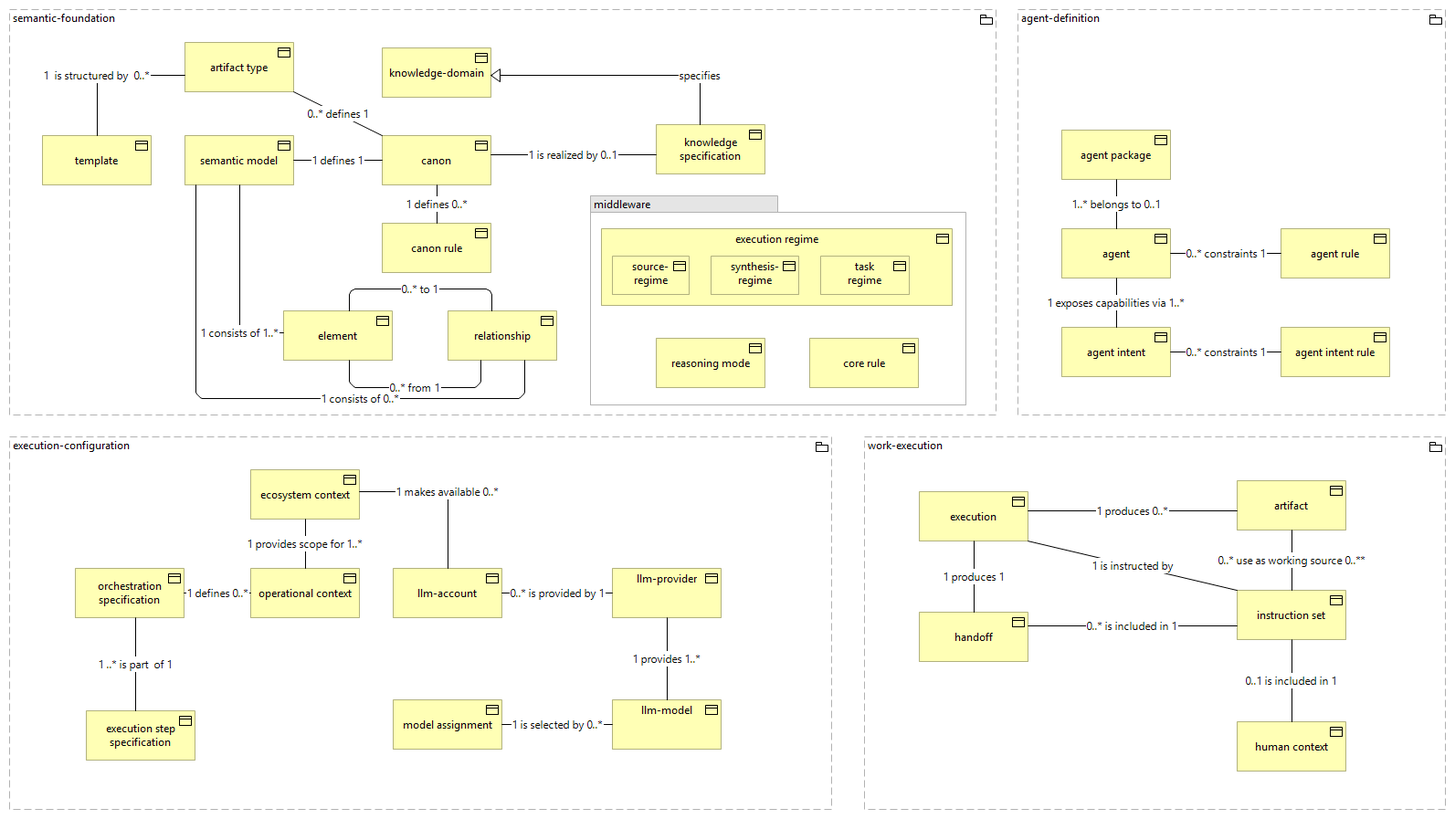
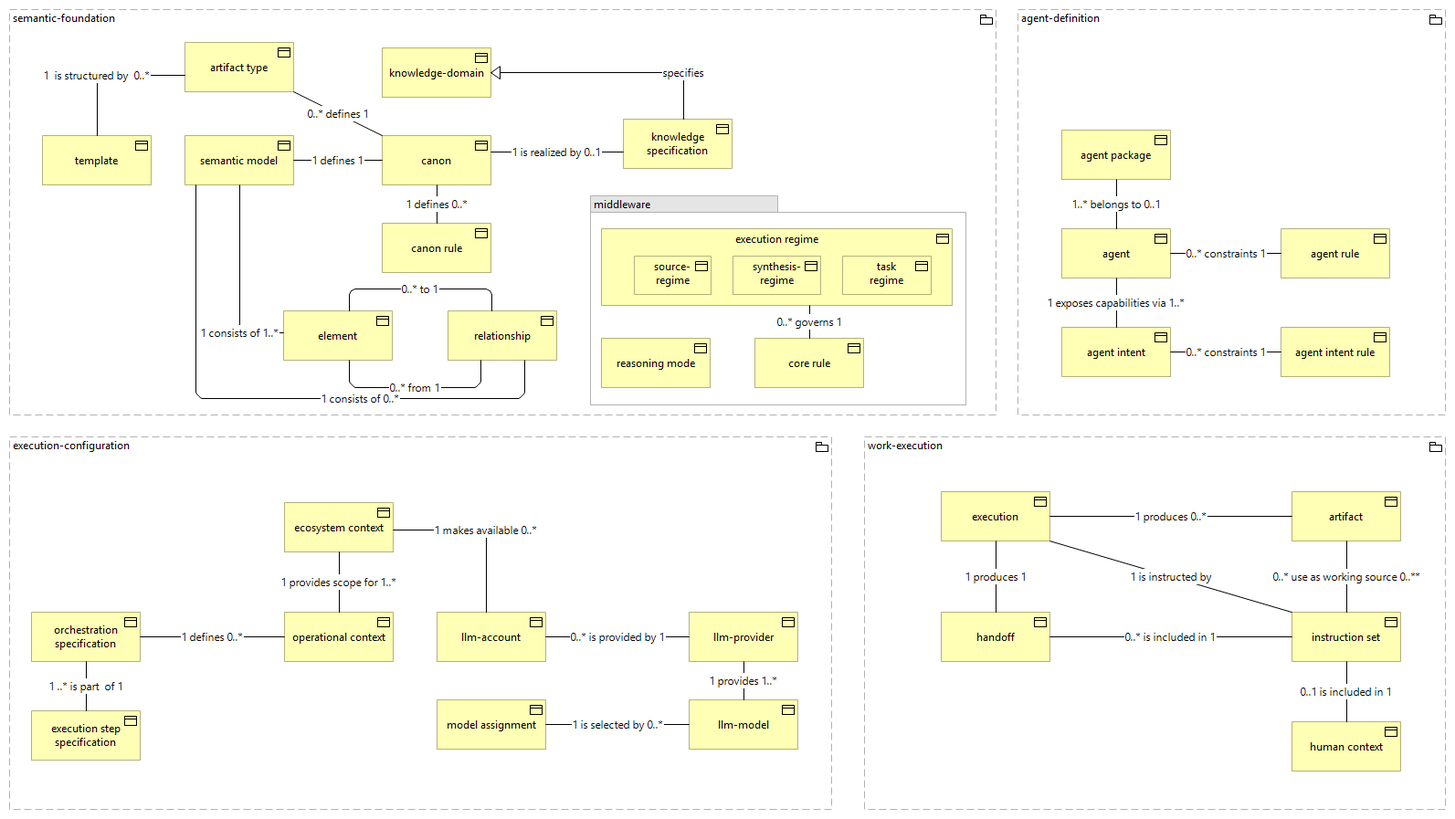
lay out modellen

diff --git a/doc/views/id-fca85b9eb275498c905415549bb8efb2/views/id-cbd780d82d40493fa36ca540fd74bf41.html b/doc/views/id-fca85b9eb275498c905415549bb8efb2/views/id-cbd780d82d40493fa36ca540fd74bf41.html
@@ -33,21 +33,21 @@
 		    <!-- If this is a digram model (has children and no bounds) show the image -->
 			   <img class="diagram" src="../images/id-cbd780d82d40493fa36ca540fd74bf41.png" alt="logical-instances-bedrijfsobjecten" usemap="#id-cbd780d82d40493fa36ca540fd74bf41map"/>
 			   <map name="id-cbd780d82d40493fa36ca540fd74bf41map">
-				  				<area shape="rect" coords="1354,526,1474,581" href="../elements/id-4e0f720907c34ad186ec8a6958817d41.html"  target="element">
-				  				<area shape="rect" coords="1006,538,1126,593" href="../elements/id-2e8c595bfedb4d8ba8cedbdf2eb284f2.html"  target="element">
-				  				<area shape="rect" coords="1354,646,1474,701" href="../elements/id-a4319ee116ab41dda18d476242ca88da.html"  target="element">
-				  				<area shape="rect" coords="1354,790,1474,845" href="../elements/id-7970b9b7176341039f2e4af29e4d2d3a.html"  target="element">
-				  				<area shape="rect" coords="1006,670,1126,725" href="../elements/id-4215cbb5ea2e4b41bf3966ed673a5740.html"  target="element">
+				  				<area shape="rect" coords="1414,538,1534,593" href="../elements/id-4e0f720907c34ad186ec8a6958817d41.html"  target="element">
+				  				<area shape="rect" coords="1030,538,1150,593" href="../elements/id-2e8c595bfedb4d8ba8cedbdf2eb284f2.html"  target="element">
+				  				<area shape="rect" coords="1414,670,1534,725" href="../elements/id-a4319ee116ab41dda18d476242ca88da.html"  target="element">
+				  				<area shape="rect" coords="1414,790,1534,845" href="../elements/id-7970b9b7176341039f2e4af29e4d2d3a.html"  target="element">
+				  				<area shape="rect" coords="1030,670,1150,725" href="../elements/id-4215cbb5ea2e4b41bf3966ed673a5740.html"  target="element">
 
 				  		<area shape="rect" coords="946,478,1583,887" href="../elements/id-bcfa69ae40094ba780197b67f2a9adc5.html"  target="element">
-				  				<area shape="rect" coords="670,622,790,677" href="../elements/id-9c36c275b1bc4801a5e76a6db8a16571.html"  target="element">
-				  				<area shape="rect" coords="670,766,790,821" href="../elements/id-47c7669317cf4b9aaec0c64751602214.html"  target="element">
-				  				<area shape="rect" coords="430,766,550,821" href="../elements/id-3208e79172454362b69c0661b8e55589.html"  target="element">
-				  				<area shape="rect" coords="274,622,394,677" href="../elements/id-94e213279a1d46149da17c04c0572efe.html"  target="element">
-				  				<area shape="rect" coords="82,622,202,677" href="../elements/id-0a67e6f41ebb45b9b7a3fc306bc08cd1.html"  target="element">
-				  				<area shape="rect" coords="430,622,550,677" href="../elements/id-abdf3fc1a9504d1eb988ab196a0ecf67.html"  target="element">
-				  				<area shape="rect" coords="94,778,214,833" href="../elements/id-95a0e0e6f3e1431da1195ba095f3435d.html"  target="element">
-				  				<area shape="rect" coords="274,514,394,569" href="../elements/id-a99dcf9067d84b2b9ddf4b7a8f40c647.html"  target="element">
+				  				<area shape="rect" coords="754,670,874,725" href="../elements/id-9c36c275b1bc4801a5e76a6db8a16571.html"  target="element">
+				  				<area shape="rect" coords="754,766,874,821" href="../elements/id-47c7669317cf4b9aaec0c64751602214.html"  target="element">
+				  				<area shape="rect" coords="478,766,598,821" href="../elements/id-3208e79172454362b69c0661b8e55589.html"  target="element">
+				  				<area shape="rect" coords="311,670,431,725" href="../elements/id-94e213279a1d46149da17c04c0572efe.html"  target="element">
+				  				<area shape="rect" coords="34,670,154,725" href="../elements/id-0a67e6f41ebb45b9b7a3fc306bc08cd1.html"  target="element">
+				  				<area shape="rect" coords="478,670,598,725" href="../elements/id-abdf3fc1a9504d1eb988ab196a0ecf67.html"  target="element">
+				  				<area shape="rect" coords="34,778,154,833" href="../elements/id-95a0e0e6f3e1431da1195ba095f3435d.html"  target="element">
+				  				<area shape="rect" coords="311,550,431,605" href="../elements/id-a99dcf9067d84b2b9ddf4b7a8f40c647.html"  target="element">
 
 				  		<area shape="rect" coords="10,478,911,887" href="../elements/id-64f19a334e974108b93f342c683cf1d5.html"  target="element">
 				  				<area shape="rect" coords="1402,250,1522,305" href="../elements/id-9dd7d63f3bda44a6919074aa6bd45c04.html"  target="element">
@@ -62,19 +62,19 @@
 				  				<area shape="rect" coords="202,148,322,203" href="../elements/id-1fa6202fbcb84810a487e731d399058b.html"  target="element">
 				  				<area shape="rect" coords="310,340,430,395" href="../elements/id-a248b6e4d5a04c6c995cc9ecb4872d2e.html"  target="element">
 				  				<area shape="rect" coords="490,340,610,395" href="../elements/id-9c775a49c62f4d49a90673446cec6a64.html"  target="element">
-				  								<area shape="rect" coords="898,280,996,323" href="../elements/id-3969a1acce774516911bb973b0ff59ee.html"  target="element">
+				  						<area shape="rect" coords="826,370,946,425" href="../elements/id-697686712c9f40faa2f23c8994eaef05.html"  target="element">
+				  								<area shape="rect" coords="922,280,1020,323" href="../elements/id-3969a1acce774516911bb973b0ff59ee.html"  target="element">
 				  								<area shape="rect" coords="1116,311,1236,366" href="../elements/id-3969a1acce774516911bb973b0ff59ee.html"  target="element">
-				  								<area shape="rect" coords="778,280,875,323" href="../elements/id-a2b9d71e443c49c58b44615551eb4f5b.html"  target="element">
-				  								<area shape="rect" coords="670,280,755,323" href="../elements/id-fe950c3ebad04932a87cb572b191e4ff.html"  target="element">
+				  								<area shape="rect" coords="802,280,899,323" href="../elements/id-a2b9d71e443c49c58b44615551eb4f5b.html"  target="element">
+				  								<area shape="rect" coords="694,280,779,323" href="../elements/id-fe950c3ebad04932a87cb572b191e4ff.html"  target="element">
 
 				  						<area shape="rect" coords="658,250,1043,335" href="../elements/id-4cab30c96f5d468d98f0c6624bc3bd5d.html"  target="element">
-				  						<area shape="rect" coords="718,370,838,425" href="../elements/id-6cd1f6f39e864f16855d0eda7857df01.html"  target="element">
-				  						<area shape="rect" coords="886,370,1006,425" href="../elements/id-697686712c9f40faa2f23c8994eaef05.html"  target="element">
+				  						<area shape="rect" coords="658,370,778,425" href="../elements/id-6cd1f6f39e864f16855d0eda7857df01.html"  target="element">
 
 				  		        <area shape="rect" coords="646,214,1058,444" href="../objects/id-8aa204dcb39646bc89f25004045e7cd7.html" target="element" >
 				  				<area shape="rect" coords="874,340,994,395" href="../elements/id-b7cb33c7b50e48dabb3f0d830de8698f.html"  target="element">
 				  				<area shape="rect" coords="418,52,538,107" href="../elements/id-4e02ad03bf6d4963b101fdad1d0f7b7b.html"  target="element">
-				  				<area shape="rect" coords="718,136,838,191" href="../elements/id-1d62c68e5893433f81d1472f83cfad2d.html"  target="element">
+				  				<area shape="rect" coords="682,130,802,185" href="../elements/id-1d62c68e5893433f81d1472f83cfad2d.html"  target="element">
 				  				<area shape="rect" coords="418,244,538,299" href="../elements/id-03e98ce0196345b599d814c30d4a986a.html"  target="element">
 				  				<area shape="rect" coords="418,148,538,203" href="../elements/id-6d66d6cdd2534270b0f3732e4ecec8cc.html"  target="element">
 
@@ -192,12 +192,6 @@
 											        </tr>
 
 															<tr>
-															    <td> <a href="../elements/id-697686712c9f40faa2f23c8994eaef05.html" target="element"> core rule </a> </td>
-															    <td> <a href="../elements/id-697686712c9f40faa2f23c8994eaef05.html" target="element" class="i18n-elementtype-BusinessObject">
-															    </a> </td>
-															</tr>
-
-															<tr>
 															    <td> <a href="../elements/id-6cd1f6f39e864f16855d0eda7857df01.html" target="element"> reasoning mode </a> </td>
 															    <td> <a href="../elements/id-6cd1f6f39e864f16855d0eda7857df01.html" target="element" class="i18n-elementtype-BusinessObject">
 															    </a> </td>
@@ -234,6 +228,12 @@
 																	</tr>
 
 															
+															<tr>
+															    <td> <a href="../elements/id-697686712c9f40faa2f23c8994eaef05.html" target="element"> core rule </a> </td>
+															    <td> <a href="../elements/id-697686712c9f40faa2f23c8994eaef05.html" target="element" class="i18n-elementtype-BusinessObject">
+															    </a> </td>
+															</tr>
+
 													
 													<tr>
 													    <td> <a href="../elements/id-9c775a49c62f4d49a90673446cec6a64.html" target="element"> relationship </a> </td>
@@ -552,6 +552,14 @@
 																							</tr>
 
 															
+																					<tr>
+																						<td> <a href="../elements/id-91a5511abcf545e198f98a4d4559ec82.html" target="element"> 0..* governs 1 </a> </td>
+																						<td> <a href="../elements/id-91a5511abcf545e198f98a4d4559ec82.html" target="element" class="i18n-elementtype-AssociationRelationship">
+																						</a> </td>
+																						<td> <a href="../elements/id-697686712c9f40faa2f23c8994eaef05.html" target="element"> core rule </a> </td>
+																						<td> <a href="../elements/id-4cab30c96f5d468d98f0c6624bc3bd5d.html" target="element"> execution regime </a> </td>
+																					</tr>
+
 													
 																			<tr>
 																				<td> <a href="../elements/id-a910f844d5e747cf921c8657b7088c32.html" target="element"> 0..* from 1 </a> </td>

diff --git a/doc/views/id-fca85b9eb275498c905415549bb8efb2/elements/model.html b/doc/views/id-fca85b9eb275498c905415549bb8efb2/elements/model.html
@@ -1169,14 +1169,6 @@
 										dataRelationships.push({id:"id-67bb08825671474586240ab415b74536", type:"AssociationRelationship", specialization:decodeURL(""), name:decodeURL("1..*+is+included+in+0+..*"), documentation:decodeURL(""), sourceid:"id-a4319ee116ab41dda18d476242ca88da", targetid:"id-b7cb33c7b50e48dabb3f0d830de8698f"});
 									dataFoldersContent.push({folderid:"id-5dd05707f28f4e91a2ed407b9bf565d6", contentid:"id-002b70b66cce4964a129d5db78c7bd59", contenttype:"AssociationRelationship"});
 										dataRelationships.push({id:"id-002b70b66cce4964a129d5db78c7bd59", type:"AssociationRelationship", specialization:decodeURL(""), name:decodeURL("0..*+constraints+1"), documentation:decodeURL(""), sourceid:"id-7c826e60007f41aeaaddbcb4fc50958d", targetid:"id-fc519c97c3c04fb3b43a50b72f0aef38"});
-									dataFoldersContent.push({folderid:"id-5dd05707f28f4e91a2ed407b9bf565d6", contentid:"id-730f27f6b9a74a53a238b76db48ff9d9", contenttype:"SpecializationRelationship"});
-										dataRelationships.push({id:"id-730f27f6b9a74a53a238b76db48ff9d9", type:"SpecializationRelationship", specialization:decodeURL(""), name:decodeURL(""), documentation:decodeURL(""), sourceid:"id-697686712c9f40faa2f23c8994eaef05", targetid:"id-b7cb33c7b50e48dabb3f0d830de8698f"});
-									dataFoldersContent.push({folderid:"id-5dd05707f28f4e91a2ed407b9bf565d6", contentid:"id-cffc5529fa324bc3b4ec4ad579393856", contenttype:"AssociationRelationship"});
-										dataRelationships.push({id:"id-cffc5529fa324bc3b4ec4ad579393856", type:"AssociationRelationship", specialization:decodeURL(""), name:decodeURL("specify"), documentation:decodeURL(""), sourceid:"id-697686712c9f40faa2f23c8994eaef05", targetid:"id-a2b9d71e443c49c58b44615551eb4f5b"});
-									dataFoldersContent.push({folderid:"id-5dd05707f28f4e91a2ed407b9bf565d6", contentid:"id-38adee02377c428394b74a3f91a59c25", contenttype:"AssociationRelationship"});
-										dataRelationships.push({id:"id-38adee02377c428394b74a3f91a59c25", type:"AssociationRelationship", specialization:decodeURL(""), name:decodeURL("specify"), documentation:decodeURL(""), sourceid:"id-3969a1acce774516911bb973b0ff59ee", targetid:"id-697686712c9f40faa2f23c8994eaef05"});
-									dataFoldersContent.push({folderid:"id-5dd05707f28f4e91a2ed407b9bf565d6", contentid:"id-223a6f2e191149ffaf02293cf9ca11e1", contenttype:"AssociationRelationship"});
-										dataRelationships.push({id:"id-223a6f2e191149ffaf02293cf9ca11e1", type:"AssociationRelationship", specialization:decodeURL(""), name:decodeURL("specify"), documentation:decodeURL(""), sourceid:"id-3969a1acce774516911bb973b0ff59ee", targetid:"id-697686712c9f40faa2f23c8994eaef05"});
 									dataFoldersContent.push({folderid:"id-5dd05707f28f4e91a2ed407b9bf565d6", contentid:"id-20c0c4d0699047d39210f1a1d24b467c", contenttype:"AssociationRelationship"});
 										dataRelationships.push({id:"id-20c0c4d0699047d39210f1a1d24b467c", type:"AssociationRelationship", specialization:decodeURL(""), name:decodeURL("1+governs+reasoning+of+0..*"), documentation:decodeURL(""), sourceid:"id-6cd1f6f39e864f16855d0eda7857df01", targetid:"id-a21ac844b75946b0b94ab3450c81ed27"});
 									dataFoldersContent.push({folderid:"id-5dd05707f28f4e91a2ed407b9bf565d6", contentid:"id-af421ae7816e4b3482283107913e951f", contenttype:"AssociationRelationship"});
@@ -1850,7 +1842,6 @@
 														dataViewsContent.push({viewid:"id-e370b29df1904e7aa3dff365806a402d", contentid:"id-9f132361c9ad4633b471a78518586eca", contenttype:"BusinessObject"});
 														dataViewsContent.push({viewid:"id-e370b29df1904e7aa3dff365806a402d", contentid:"id-84509990fb0f41dfa1285acbe94ec35d", contenttype:"BusinessObject"});
 
-																						dataViewsContent.push({viewid:"id-e370b29df1904e7aa3dff365806a402d", contentid:"id-730f27f6b9a74a53a238b76db48ff9d9", contenttype:"SpecializationRelationship"});
 																						dataViewsContent.push({viewid:"id-e370b29df1904e7aa3dff365806a402d", contentid:"id-91a5511abcf545e198f98a4d4559ec82", contenttype:"AssociationRelationship"});
 
 																						dataViewsContent.push({viewid:"id-e370b29df1904e7aa3dff365806a402d", contentid:"id-c3ff3f9db22f48e883bd64060c6565b2", contenttype:"AssociationRelationship"});
@@ -2446,7 +2437,6 @@
 															dataViewsContent.push({viewid:"id-cbd780d82d40493fa36ca540fd74bf41", contentid:"id-1d62c68e5893433f81d1472f83cfad2d", contenttype:"BusinessObject"});
 															dataViewsContent.push({viewid:"id-cbd780d82d40493fa36ca540fd74bf41", contentid:"id-4e02ad03bf6d4963b101fdad1d0f7b7b", contenttype:"BusinessObject"});
 															dataViewsContent.push({viewid:"id-cbd780d82d40493fa36ca540fd74bf41", contentid:"id-b7cb33c7b50e48dabb3f0d830de8698f", contenttype:"BusinessObject"});
-																	dataViewsContent.push({viewid:"id-cbd780d82d40493fa36ca540fd74bf41", contentid:"id-697686712c9f40faa2f23c8994eaef05", contenttype:"BusinessObject"});
 																	dataViewsContent.push({viewid:"id-cbd780d82d40493fa36ca540fd74bf41", contentid:"id-6cd1f6f39e864f16855d0eda7857df01", contenttype:"BusinessObject"});
 																	dataViewsContent.push({viewid:"id-cbd780d82d40493fa36ca540fd74bf41", contentid:"id-4cab30c96f5d468d98f0c6624bc3bd5d", contenttype:"BusinessObject"});
 																			dataViewsContent.push({viewid:"id-cbd780d82d40493fa36ca540fd74bf41", contentid:"id-fe950c3ebad04932a87cb572b191e4ff", contenttype:"BusinessObject"});
@@ -2454,6 +2444,7 @@
 																			dataViewsContent.push({viewid:"id-cbd780d82d40493fa36ca540fd74bf41", contentid:"id-3969a1acce774516911bb973b0ff59ee", contenttype:"BusinessObject"});
 																			dataViewsContent.push({viewid:"id-cbd780d82d40493fa36ca540fd74bf41", contentid:"id-3969a1acce774516911bb973b0ff59ee", contenttype:"BusinessObject"});
 																	
+																	dataViewsContent.push({viewid:"id-cbd780d82d40493fa36ca540fd74bf41", contentid:"id-697686712c9f40faa2f23c8994eaef05", contenttype:"BusinessObject"});
 															
 															dataViewsContent.push({viewid:"id-cbd780d82d40493fa36ca540fd74bf41", contentid:"id-9c775a49c62f4d49a90673446cec6a64", contenttype:"BusinessObject"});
 															dataViewsContent.push({viewid:"id-cbd780d82d40493fa36ca540fd74bf41", contentid:"id-a248b6e4d5a04c6c995cc9ecb4872d2e", contenttype:"BusinessObject"});
@@ -2513,6 +2504,8 @@
 																									dataViewsContent.push({viewid:"id-cbd780d82d40493fa36ca540fd74bf41", contentid:"id-1ae5414b4a37463086a92804f896802a", contenttype:"SpecializationRelationship"});
 
 																	
+																							dataViewsContent.push({viewid:"id-cbd780d82d40493fa36ca540fd74bf41", contentid:"id-91a5511abcf545e198f98a4d4559ec82", contenttype:"AssociationRelationship"});
+
 															
 																					dataViewsContent.push({viewid:"id-cbd780d82d40493fa36ca540fd74bf41", contentid:"id-a910f844d5e747cf921c8657b7088c32", contenttype:"AssociationRelationship"});
 																					dataViewsContent.push({viewid:"id-cbd780d82d40493fa36ca540fd74bf41", contentid:"id-aed44c80476b4f04900f75e7973d8831", contenttype:"AssociationRelationship"});

diff --git a/doc/views/id-fca85b9eb275498c905415549bb8efb2/elements/id-697686712c9f40faa2f23c8994eaef05.html b/doc/views/id-fca85b9eb275498c905415549bb8efb2/elements/id-697686712c9f40faa2f23c8994eaef05.html
@@ -113,32 +113,12 @@ Voorbeelden:
 							</thead>
 							<tbody>
 									<tr>
-											<td><a href="../elements/id-730f27f6b9a74a53a238b76db48ff9d9.html" target="element" title=""></a></td>
-											<td><span class="i18n-elementtype-SpecializationRelationship" /></td>
-											<td><a href="../elements/id-697686712c9f40faa2f23c8994eaef05.html" target="element"> core rule</a></td>
-											<td><a href="../elements/id-b7cb33c7b50e48dabb3f0d830de8698f.html" target="element"> rule</a></td>
-										</tr><tr>
-											<td><a href="../elements/id-cffc5529fa324bc3b4ec4ad579393856.html" target="element" title="specify">specify</a></td>
-											<td><span class="i18n-elementtype-AssociationRelationship" /></td>
-											<td><a href="../elements/id-697686712c9f40faa2f23c8994eaef05.html" target="element"> core rule</a></td>
-											<td><a href="../elements/id-a2b9d71e443c49c58b44615551eb4f5b.html" target="element"> synthesis-regime</a></td>
-										</tr><tr>
 											<td><a href="../elements/id-91a5511abcf545e198f98a4d4559ec82.html" target="element" title="0..* governs 1">0..* governs 1</a></td>
 											<td><span class="i18n-elementtype-AssociationRelationship" /></td>
 											<td><a href="../elements/id-697686712c9f40faa2f23c8994eaef05.html" target="element"> core rule</a></td>
 											<td><a href="../elements/id-4cab30c96f5d468d98f0c6624bc3bd5d.html" target="element"> execution regime</a></td>
 										</tr>
 									<tr>
-											<td><a href="../elements/id-38adee02377c428394b74a3f91a59c25.html" target="element" title="specify">specify</a></td>
-											<td><span class="i18n-elementtype-AssociationRelationship" /></td>
-											<td><a href="../elements/id-3969a1acce774516911bb973b0ff59ee.html" target="element"> task regime</a></td>
-											<td><a href="../elements/id-697686712c9f40faa2f23c8994eaef05.html" target="element"> core rule</a></td>
-										</tr><tr>
-											<td><a href="../elements/id-223a6f2e191149ffaf02293cf9ca11e1.html" target="element" title="specify">specify</a></td>
-											<td><span class="i18n-elementtype-AssociationRelationship" /></td>
-											<td><a href="../elements/id-3969a1acce774516911bb973b0ff59ee.html" target="element"> task regime</a></td>
-											<td><a href="../elements/id-697686712c9f40faa2f23c8994eaef05.html" target="element"> core rule</a></td>
-										</tr><tr>
 											<td><a href="../elements/id-725a36246fbf44a89b70b997f59094d7.html" target="element" title=""></a></td>
 											<td><span class="i18n-elementtype-CompositionRelationship" /></td>
 											<td><a href="../elements/id-0f80755c4e134fe4aa43acca7aa28927.html" target="element"> semantic-foundation</a></td>

diff --git a/doc/views/id-fca85b9eb275498c905415549bb8efb2/elements/id-0f80755c4e134fe4aa43acca7aa28927.html b/doc/views/id-fca85b9eb275498c905415549bb8efb2/elements/id-0f80755c4e134fe4aa43acca7aa28927.html
@@ -103,11 +103,6 @@
 											<td><a href="../elements/id-0f80755c4e134fe4aa43acca7aa28927.html" target="element"> semantic-foundation</a></td>
 											<td><a href="../elements/id-03e98ce0196345b599d814c30d4a986a.html" target="element"> canon rule</a></td>
 										</tr><tr>
-											<td><a href="../elements/id-725a36246fbf44a89b70b997f59094d7.html" target="element" title=""></a></td>
-											<td><span class="i18n-elementtype-CompositionRelationship" /></td>
-											<td><a href="../elements/id-0f80755c4e134fe4aa43acca7aa28927.html" target="element"> semantic-foundation</a></td>
-											<td><a href="../elements/id-697686712c9f40faa2f23c8994eaef05.html" target="element"> core rule</a></td>
-										</tr><tr>
 											<td><a href="../elements/id-ddb3446463024bbe8a6faa2aac4598fb.html" target="element" title=""></a></td>
 											<td><span class="i18n-elementtype-CompositionRelationship" /></td>
 											<td><a href="../elements/id-0f80755c4e134fe4aa43acca7aa28927.html" target="element"> semantic-foundation</a></td>
@@ -162,6 +157,11 @@
 											<td><span class="i18n-elementtype-CompositionRelationship" /></td>
 											<td><a href="../elements/id-0f80755c4e134fe4aa43acca7aa28927.html" target="element"> semantic-foundation</a></td>
 											<td><a href="../elements/id-84509990fb0f41dfa1285acbe94ec35d.html" target="element"> template</a></td>
+										</tr><tr>
+											<td><a href="../elements/id-725a36246fbf44a89b70b997f59094d7.html" target="element" title=""></a></td>
+											<td><span class="i18n-elementtype-CompositionRelationship" /></td>
+											<td><a href="../elements/id-0f80755c4e134fe4aa43acca7aa28927.html" target="element"> semantic-foundation</a></td>
+											<td><a href="../elements/id-697686712c9f40faa2f23c8994eaef05.html" target="element"> core rule</a></td>
 										</tr>
 							</tbody>
 						</table>

diff --git a/doc/views/id-fca85b9eb275498c905415549bb8efb2/objects/id-8aa204dcb39646bc89f25004045e7cd7.html b/doc/views/id-fca85b9eb275498c905415549bb8efb2/objects/id-8aa204dcb39646bc89f25004045e7cd7.html
@@ -100,12 +100,6 @@
 								</thead>
 								<tbody>
 											<tr>
-											    <td> <a href="../elements/id-697686712c9f40faa2f23c8994eaef05.html" target="element"> core rule </a> </td>
-											    <td> <a href="../elements/id-697686712c9f40faa2f23c8994eaef05.html" target="element" class="i18n-elementtype-BusinessObject">
-											    </a> </td>
-											</tr>
-
-											<tr>
 											    <td> <a href="../elements/id-6cd1f6f39e864f16855d0eda7857df01.html" target="element"> reasoning mode </a> </td>
 											    <td> <a href="../elements/id-6cd1f6f39e864f16855d0eda7857df01.html" target="element" class="i18n-elementtype-BusinessObject">
 											    </a> </td>
@@ -142,6 +136,12 @@
 													</tr>
 
 											
+											<tr>
+											    <td> <a href="../elements/id-697686712c9f40faa2f23c8994eaef05.html" target="element"> core rule </a> </td>
+											    <td> <a href="../elements/id-697686712c9f40faa2f23c8994eaef05.html" target="element" class="i18n-elementtype-BusinessObject">
+											    </a> </td>
+											</tr>
+
 
 								</tbody>
 							</table>
@@ -190,6 +190,14 @@
 																			</tr>
 
 											
+																	<tr>
+																		<td> <a href="../elements/id-91a5511abcf545e198f98a4d4559ec82.html" target="element"> 0..* governs 1 </a> </td>
+																		<td> <a href="../elements/id-91a5511abcf545e198f98a4d4559ec82.html" target="element" class="i18n-elementtype-AssociationRelationship">
+																		</a> </td>
+																		<td> <a href="../elements/id-697686712c9f40faa2f23c8994eaef05.html" target="element"> core rule </a> </td>
+																		<td> <a href="../elements/id-4cab30c96f5d468d98f0c6624bc3bd5d.html" target="element"> execution regime </a> </td>
+																	</tr>
+
 
 								</tbody>
 							</table>

diff --git a/doc/views/index.html b/doc/views/index.html
@@ -1363,22 +1363,6 @@
 															0..* constraints 1
 														(agent intent rule - agent intent) 
 													</a></li>
-													<li class="tree-element "><a href="id-fca85b9eb275498c905415549bb8efb2/elements/id-730f27f6b9a74a53a238b76db48ff9d9.html" target="element">
-															<span class="i18n-elementtype-SpecializationRelationship"></span>
-														(core rule - rule) 
-													</a></li>
-													<li class="tree-element "><a href="id-fca85b9eb275498c905415549bb8efb2/elements/id-cffc5529fa324bc3b4ec4ad579393856.html" target="element">
-															specify
-														(core rule - synthesis-regime) 
-													</a></li>
-													<li class="tree-element "><a href="id-fca85b9eb275498c905415549bb8efb2/elements/id-38adee02377c428394b74a3f91a59c25.html" target="element">
-															specify
-														(task regime - core rule) 
-													</a></li>
-													<li class="tree-element "><a href="id-fca85b9eb275498c905415549bb8efb2/elements/id-223a6f2e191149ffaf02293cf9ca11e1.html" target="element">
-															specify
-														(task regime - core rule) 
-													</a></li>
 													<li class="tree-element "><a href="id-fca85b9eb275498c905415549bb8efb2/elements/id-20c0c4d0699047d39210f1a1d24b467c.html" target="element">
 															1 governs reasoning of 0..*
 														(reasoning mode - agent) 

diff --git a/doc/views/id-fca85b9eb275498c905415549bb8efb2/elements/id-3969a1acce774516911bb973b0ff59ee.html b/doc/views/id-fca85b9eb275498c905415549bb8efb2/elements/id-3969a1acce774516911bb973b0ff59ee.html
@@ -126,16 +126,6 @@ Voorbeelden:
 							</thead>
 							<tbody>
 									<tr>
-											<td><a href="../elements/id-38adee02377c428394b74a3f91a59c25.html" target="element" title="specify">specify</a></td>
-											<td><span class="i18n-elementtype-AssociationRelationship" /></td>
-											<td><a href="../elements/id-3969a1acce774516911bb973b0ff59ee.html" target="element"> task regime</a></td>
-											<td><a href="../elements/id-697686712c9f40faa2f23c8994eaef05.html" target="element"> core rule</a></td>
-										</tr><tr>
-											<td><a href="../elements/id-223a6f2e191149ffaf02293cf9ca11e1.html" target="element" title="specify">specify</a></td>
-											<td><span class="i18n-elementtype-AssociationRelationship" /></td>
-											<td><a href="../elements/id-3969a1acce774516911bb973b0ff59ee.html" target="element"> task regime</a></td>
-											<td><a href="../elements/id-697686712c9f40faa2f23c8994eaef05.html" target="element"> core rule</a></td>
-										</tr><tr>
 											<td><a href="../elements/id-1ae5414b4a37463086a92804f896802a.html" target="element" title=""></a></td>
 											<td><span class="i18n-elementtype-SpecializationRelationship" /></td>
 											<td><a href="../elements/id-3969a1acce774516911bb973b0ff59ee.html" target="element"> task regime</a></td>

diff --git a/doc/views/id-fca85b9eb275498c905415549bb8efb2/views/id-e370b29df1904e7aa3dff365806a402d.html b/doc/views/id-fca85b9eb275498c905415549bb8efb2/views/id-e370b29df1904e7aa3dff365806a402d.html
@@ -397,13 +397,6 @@ Een NIAM-analist kan als Agent een Agent Intent Analyseer domeinuitspraken expos
 								</thead>
 								<tbody>
 																			<tr>
-																				<td> <a href="../elements/id-730f27f6b9a74a53a238b76db48ff9d9.html" target="element">  </a> </td>
-																				<td> <a href="../elements/id-730f27f6b9a74a53a238b76db48ff9d9.html" target="element" class="i18n-elementtype-SpecializationRelationship">
-																				</a> </td>
-																				<td> <a href="../elements/id-697686712c9f40faa2f23c8994eaef05.html" target="element"> core rule </a> </td>
-																				<td> <a href="../elements/id-b7cb33c7b50e48dabb3f0d830de8698f.html" target="element"> rule </a> </td>
-																			</tr>
-																			<tr>
 																				<td> <a href="../elements/id-91a5511abcf545e198f98a4d4559ec82.html" target="element"> 0..* governs 1 </a> </td>
 																				<td> <a href="../elements/id-91a5511abcf545e198f98a4d4559ec82.html" target="element" class="i18n-elementtype-AssociationRelationship">
 																				</a> </td>

diff --git a/doc/views/id-fca85b9eb275498c905415549bb8efb2/elements/id-b7cb33c7b50e48dabb3f0d830de8698f.html b/doc/views/id-fca85b9eb275498c905415549bb8efb2/elements/id-b7cb33c7b50e48dabb3f0d830de8698f.html
@@ -138,11 +138,6 @@ Voorbeelden:
 											<td><a href="../elements/id-a4319ee116ab41dda18d476242ca88da.html" target="element"> instruction set</a></td>
 											<td><a href="../elements/id-b7cb33c7b50e48dabb3f0d830de8698f.html" target="element"> rule</a></td>
 										</tr><tr>
-											<td><a href="../elements/id-730f27f6b9a74a53a238b76db48ff9d9.html" target="element" title=""></a></td>
-											<td><span class="i18n-elementtype-SpecializationRelationship" /></td>
-											<td><a href="../elements/id-697686712c9f40faa2f23c8994eaef05.html" target="element"> core rule</a></td>
-											<td><a href="../elements/id-b7cb33c7b50e48dabb3f0d830de8698f.html" target="element"> rule</a></td>
-										</tr><tr>
 											<td><a href="../elements/id-2b83d6df1fc84eb9b6b9f316a61accc5.html" target="element" title=""></a></td>
 											<td><span class="i18n-elementtype-CompositionRelationship" /></td>
 											<td><a href="../elements/id-6d66d6cdd2534270b0f3732e4ecec8cc.html" target="element"> canon</a></td>

diff --git a/doc/views/id-fca85b9eb275498c905415549bb8efb2/elements/id-a2b9d71e443c49c58b44615551eb4f5b.html b/doc/views/id-fca85b9eb275498c905415549bb8efb2/elements/id-a2b9d71e443c49c58b44615551eb4f5b.html
@@ -125,11 +125,6 @@ Voorbeelden:
 											<td><a href="../elements/id-4cab30c96f5d468d98f0c6624bc3bd5d.html" target="element"> execution regime</a></td>
 										</tr>
 									<tr>
-											<td><a href="../elements/id-cffc5529fa324bc3b4ec4ad579393856.html" target="element" title="specify">specify</a></td>
-											<td><span class="i18n-elementtype-AssociationRelationship" /></td>
-											<td><a href="../elements/id-697686712c9f40faa2f23c8994eaef05.html" target="element"> core rule</a></td>
-											<td><a href="../elements/id-a2b9d71e443c49c58b44615551eb4f5b.html" target="element"> synthesis-regime</a></td>
-										</tr><tr>
 											<td><a href="../elements/id-e7361937421c4998a8bb9a6926b39378.html" target="element" title=""></a></td>
 											<td><span class="i18n-elementtype-CompositionRelationship" /></td>
 											<td><a href="../elements/id-7d4fb89b37be4413ab38bfe3005524e3.html" target="element"> OPERATIONAL CONTEXT AGENT SERVICE</a></td>

diff --git a/doc/views/id-fca85b9eb275498c905415549bb8efb2/elements/id-91a5511abcf545e198f98a4d4559ec82.html b/doc/views/id-fca85b9eb275498c905415549bb8efb2/elements/id-91a5511abcf545e198f98a4d4559ec82.html
@@ -84,7 +84,10 @@
 								</tr>
 							</thead>
 							<tbody>
-								<tr id="used-in-views-id-e370b29df1904e7aa3dff365806a402d">
+								<tr id="used-in-views-id-cbd780d82d40493fa36ca540fd74bf41">
+																	<td><a href="../views/id-cbd780d82d40493fa36ca540fd74bf41.html" target="view" title="logical-instances-bedrijfsobjecten"> logical-instances-bedrijfsobjecten </a></td>
+																	<td><span class="i18n-viewpoint-" /></td>
+																</tr><tr id="used-in-views-id-e370b29df1904e7aa3dff365806a402d">
 																	<td><a href="../views/id-e370b29df1904e7aa3dff365806a402d.html" target="view" title="entoli-conceptual"> entoli-conceptual </a></td>
 																	<td><span class="i18n-viewpoint-" /></td>
 																</tr>
